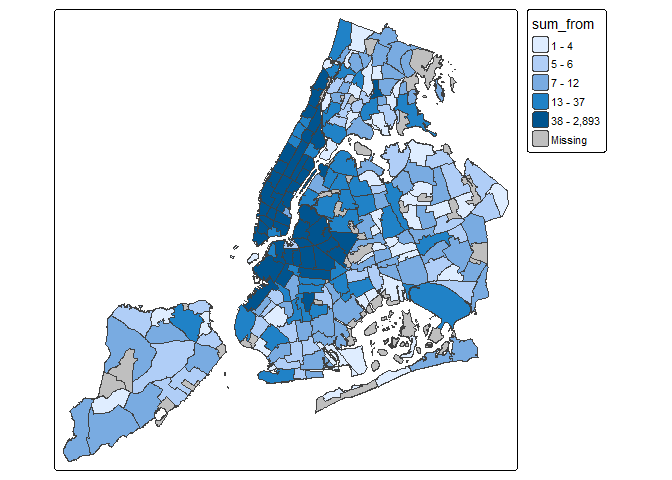
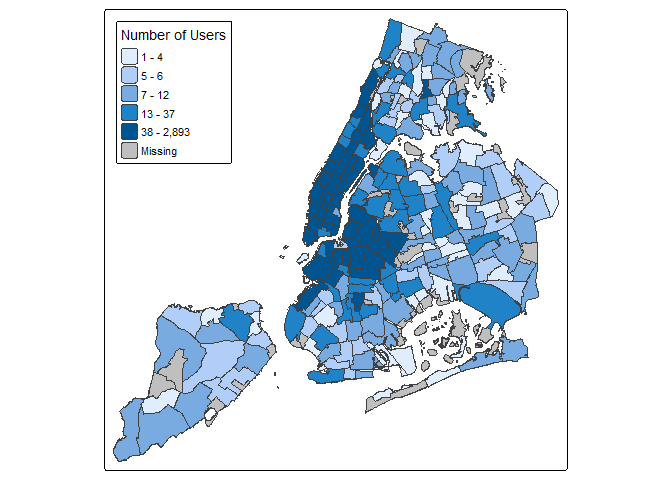
Updated filepaths and added legends to choropleths

diff --git a/analysis/4_Create_Neighborhood_Graph/neighborhood_graph.md b/analysis/4_Create_Neighborhood_Graph/neighborhood_graph.md
@@ -110,7 +110,9 @@ nynta_proj = nynta_proj |>
 ``` r
 # Mapping number of (normalized) posts by neighborhood
 tm_shape(nynta_proj)+
-  tm_polygons(fill = "sum_to", style = "quantile")
+  tm_polygons(fill = "sum_to", style = "quantile",
+              title = "Weighted Sum of Posts") +
+  tm_layout(legend.position = c(.025, .975))
 ```
 
     ## 
@@ -120,20 +122,25 @@ tm_shape(nynta_proj)+
     ## [v3->v4] `tm_polygons()`: instead of `style = "quantile"`, use fill.scale =
     ## `tm_scale_intervals()`.
     ## ℹ Migrate the argument(s) 'style' to 'tm_scale_intervals(<HERE>)'
+    ## [v3->v4] `tm_polygons()`: migrate the argument(s) related to the legend of the
+    ## visual variable `fill` namely 'title' to 'fill.legend = tm_legend(<HERE>)'
 
 ![](neighborhood_graph_files/figure-gfm/Choropleth_Visualizations-1.png)<!-- -->
 
 ``` r
 # Mapping number of users by neighborhood
 tm_shape(nynta_proj)+
-  tm_polygons(fill = "sum_from", style = "quantile")
+  tm_polygons(fill = "sum_from", style = "quantile",
+              title = "Number of Users") +
+  tm_layout(legend.position = c(.025, .975))
 ```
 
     ## 
     ## ── tmap v3 code detected ───────────────────────────────────────────────────────
     ## [v3->v4] `tm_polygons()`: instead of `style = "quantile"`, use fill.scale =
     ## `tm_scale_intervals()`.
-    ## ℹ Migrate the argument(s) 'style' to 'tm_scale_intervals(<HERE>)'
+    ## ℹ Migrate the argument(s) 'style' to 'tm_scale_intervals(<HERE>)'[v3->v4] `tm_polygons()`: migrate the argument(s) related to the legend of the
+    ## visual variable `fill` namely 'title' to 'fill.legend = tm_legend(<HERE>)'
 
 ![](neighborhood_graph_files/figure-gfm/Choropleth_Visualizations-2.png)<!-- -->
 
@@ -142,14 +149,17 @@ tm_shape(nynta_proj)+
 #   This visualizes which neighborhoods have more inflow (ie that containing JFK Airport),
 #   and which have users that tend to tweet in other neighborhoods (ie Upper Manhattan)
 tm_shape(nynta_proj)+
-  tm_polygons(fill = "sum_diff", style = "quantile")
+  tm_polygons(fill = "sum_diff", style = "quantile",
+              title = "Number of Users minus\nWeighted Sum of Posts") +
+  tm_layout(legend.position = c(.025, .975))
 ```
 
     ## 
     ## ── tmap v3 code detected ───────────────────────────────────────────────────────
     ## [v3->v4] `tm_polygons()`: instead of `style = "quantile"`, use fill.scale =
     ## `tm_scale_intervals()`.
-    ## ℹ Migrate the argument(s) 'style' to 'tm_scale_intervals(<HERE>)'[scale] tm_polygons:() the data variable assigned to 'fill' contains positive and negative values, so midpoint is set to 0. Set 'midpoint = NA' in 'fill.scale = tm_scale_intervals(<HERE>)' to use all visual values (e.g. colors)
+    ## ℹ Migrate the argument(s) 'style' to 'tm_scale_intervals(<HERE>)'[v3->v4] `tm_polygons()`: migrate the argument(s) related to the legend of the
+    ## visual variable `fill` namely 'title' to 'fill.legend = tm_legend(<HERE>)'[scale] tm_polygons:() the data variable assigned to 'fill' contains positive and negative values, so midpoint is set to 0. Set 'midpoint = NA' in 'fill.scale = tm_scale_intervals(<HERE>)' to use all visual values (e.g. colors)
 
 ![](neighborhood_graph_files/figure-gfm/Choropleth_Visualizations-3.png)<!-- -->
 